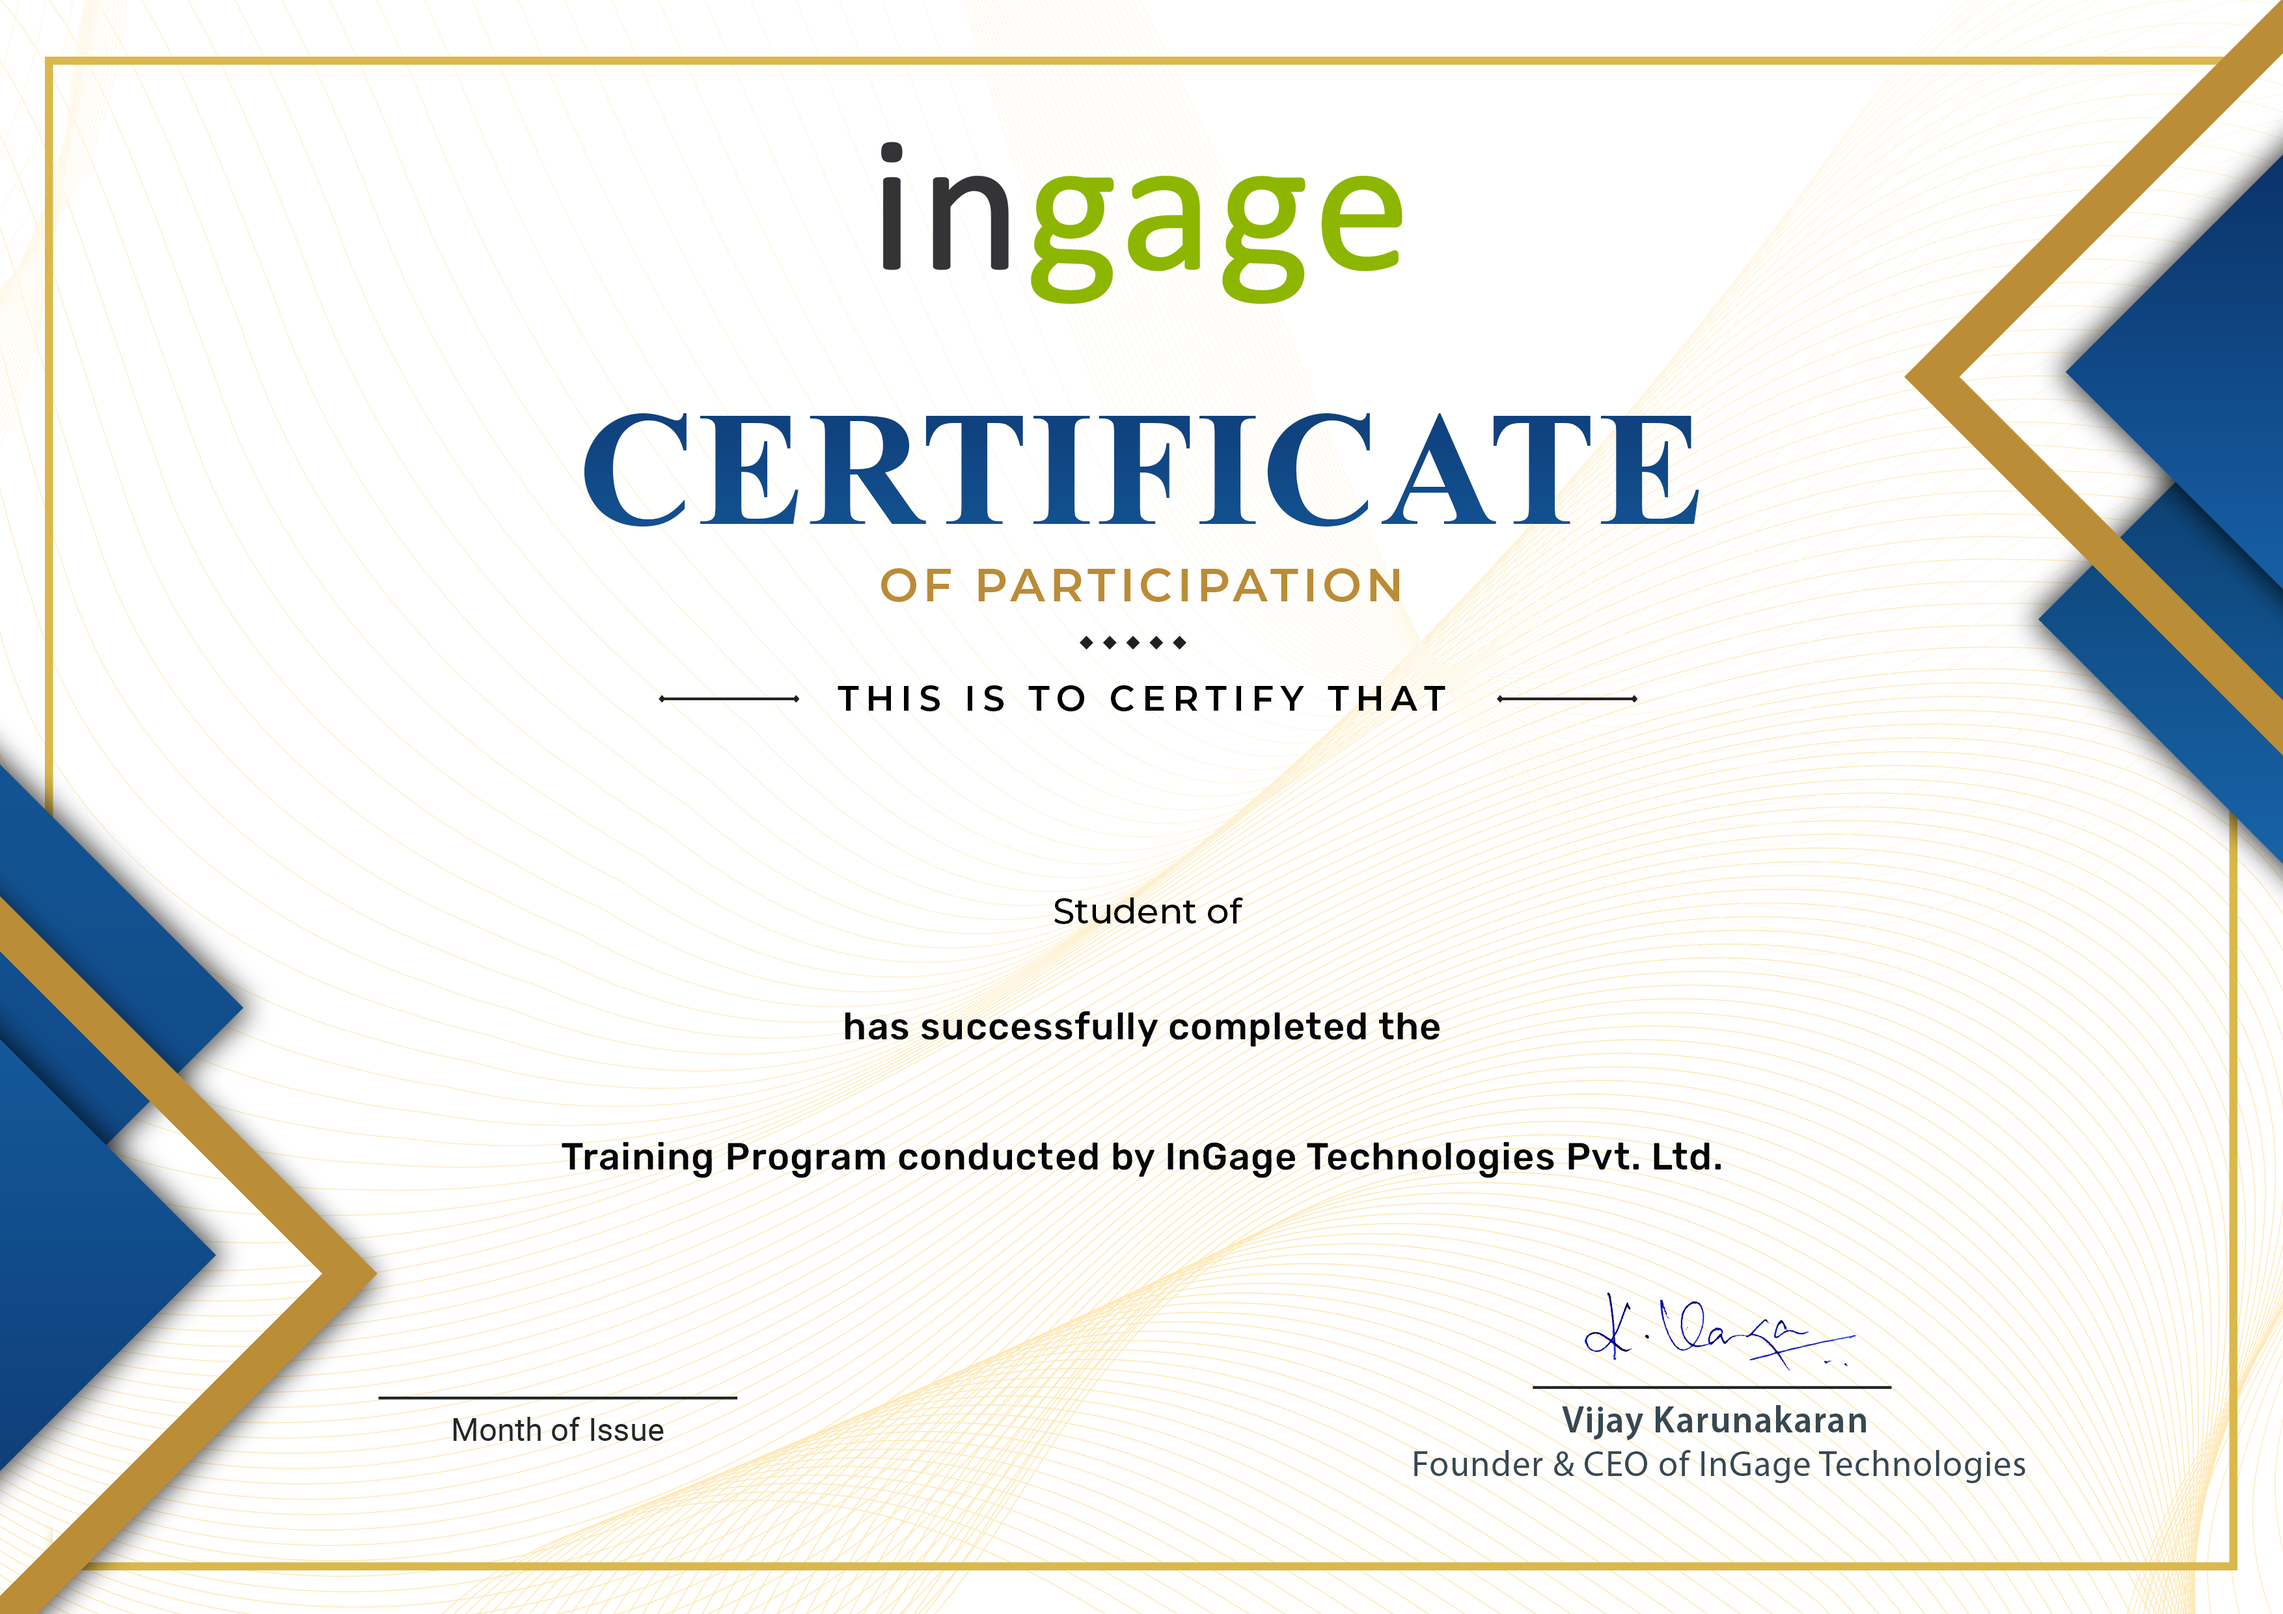
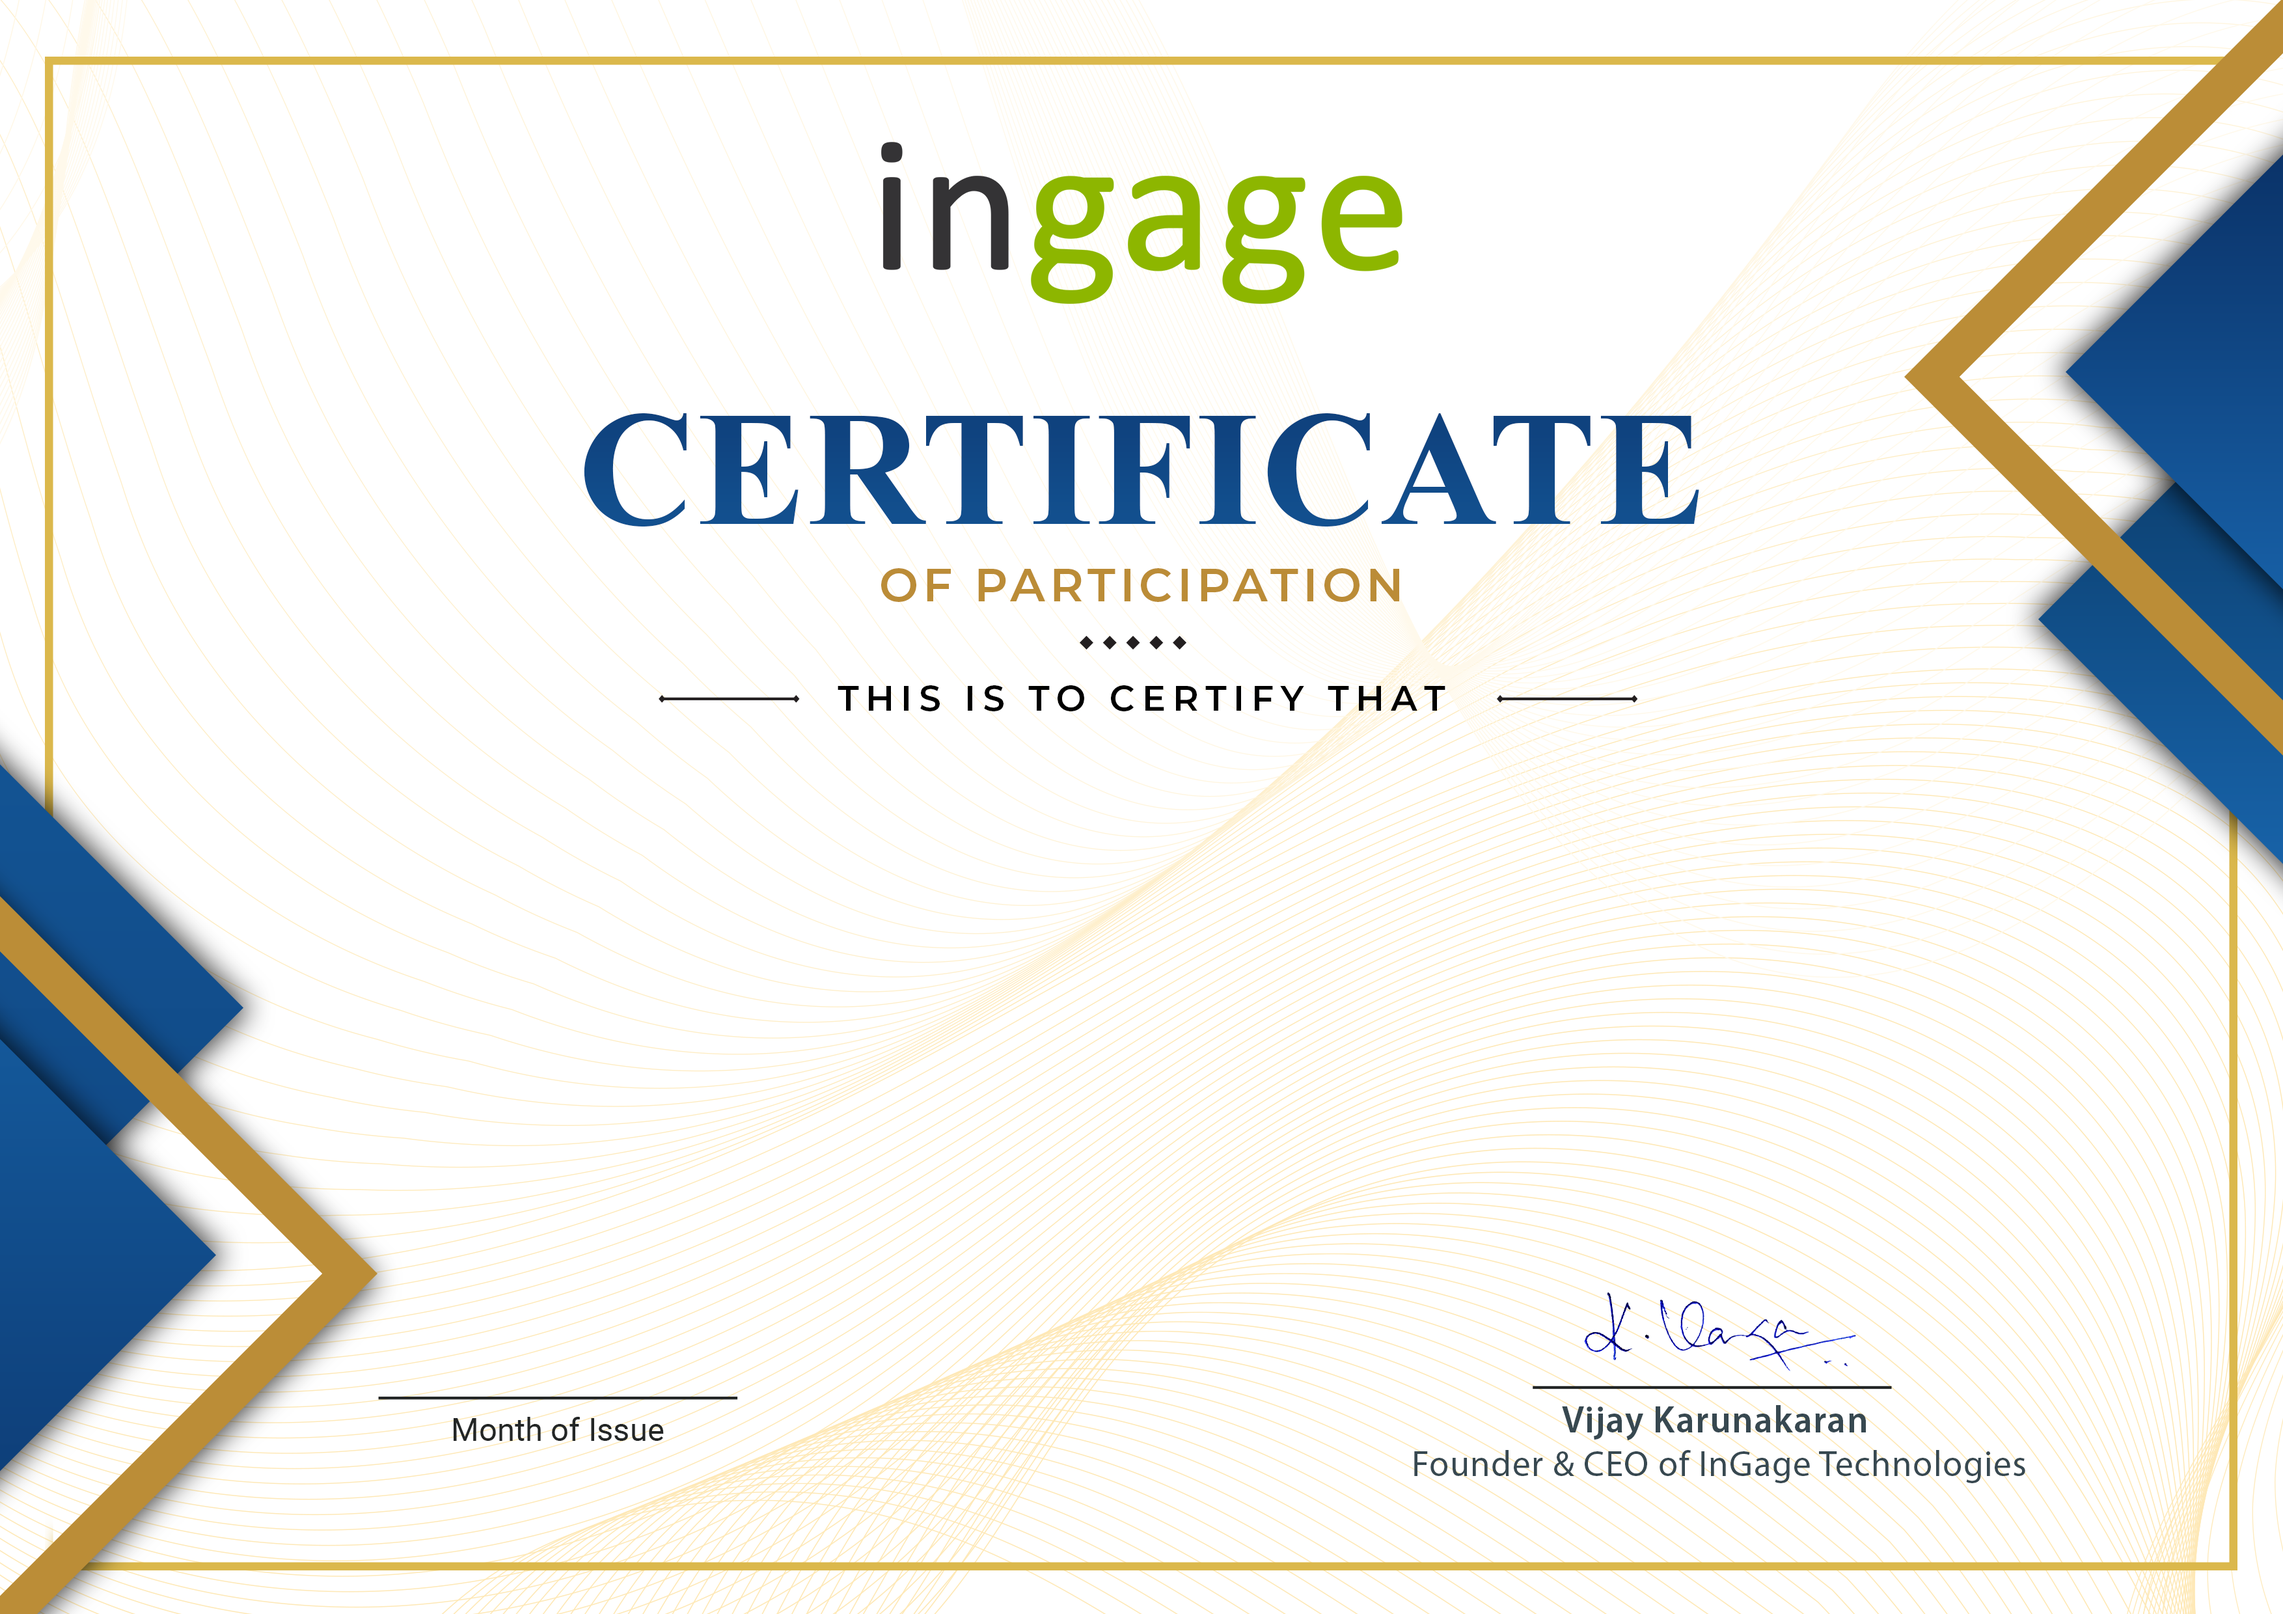
certificate aligned

Changed region(s): [[0.2486, 0.7141, 0.7457, 0.7452], [0.3729, 0.621, 0.6214, 0.652], [0.4661, 0.5589, 0.5282, 0.5899]]

diff --git a/backend/views.py b/backend/views.py
@@ -1,3 +1,88 @@
+# from django.http import HttpResponse, JsonResponse
+# from PIL import Image, ImageDraw, ImageFont
+# import io
+# import json
+# import os
+# from courses.models import *
+# from django.views.decorators.csrf import csrf_exempt
+# from django.conf import settings
+
+# @csrf_exempt
+# def generate_certificate(request):
+#     if request.method != 'POST':
+#         return JsonResponse({'error': 'Only POST method allowed'}, status=405)
+
+#     try:
+#         data = json.loads(request.body)
+#         name = data.get('name', '').title()  # Capitalize each word
+#         course = data.get('course').upper()
+#         course = f'has successfully completed the "{course}"'
+#         college = data.get('college')
+#         college = f'Student of "{college}"'
+#         temp = 'Training Program conducted by Ingage Technologies Pvt. Ltd.'
+#         month = data.get('month')
+
+#         if not all([name, course, college, month]):
+#             return JsonResponse({'error': 'Missing name, course, college, or month'}, status=400)
+
+#         try:
+#             user = User.objects.get(first_name__iexact=name.split()[0])
+#             course = Course.objects.get(name__iexact=name)
+#             Subscription.objects.filter(user=user, course=course).update(certificate_issued=True)
+#         except (User.DoesNotExist, Course.DoesNotExist):
+#             pass  # Don't block certificate creation if user not matched
+        
+#         # Paths
+#         template_path = os.path.join(settings.BASE_DIR, 'static', 'certificate.png')
+#         font_alexbrush = os.path.join(settings.BASE_DIR, 'static', 'AlexBrush-Regula for Name 23pt.ttf')
+#         font_rubik = os.path.join(settings.BASE_DIR, 'static', 'Rubik-Medium Course Name 14pt.ttf')
+#         font_montserrat = os.path.join(settings.BASE_DIR, 'static', 'Montserrat-Medium for College Name 13pt.ttf')
+
+#         # Load image and fonts
+#         certificate = Image.open(template_path).convert("RGB")
+#         draw = ImageDraw.Draw(certificate)
+
+#         font_name = ImageFont.truetype(font_alexbrush, size=200)
+#         font_course = ImageFont.truetype(font_rubik, size=53)
+#         font_college = ImageFont.truetype(font_montserrat, size=48)
+#         font_temp = ImageFont.truetype(font_montserrat, size=48)
+#         font_month = ImageFont.truetype(font_montserrat, size=48)  # Not bold
+
+#         # Coordinates
+#         name_center = (1754, 1300)
+#         college_center = (1754, 1580)
+#         course_center = (1754, 1680)
+#         temp_center = (1754, 1780)
+#         month_center = (849, 2096)
+
+#         # Draw text centered
+#         def draw_centered_text(text, center, font, fill="black"):
+#             bbox = draw.textbbox((0, 0), text, font=font)
+#             width = bbox[2] - bbox[0]
+#             height = bbox[3] - bbox[1]
+#             position = (center[0] - width / 2, center[1] - height / 2)
+#             draw.text(position, text, font=font, fill=fill)
+
+#         # Draw all fields
+#         draw_centered_text(name, name_center, font_name, fill="#104784")
+#         draw_centered_text(course, course_center, font_course)
+#         draw_centered_text(college, college_center, font_college)
+#         draw_centered_text(temp, temp_center, font_temp)
+#         draw_centered_text(month, month_center, font_month)
+
+#         # Save to PDF
+#         pdf_buffer = io.BytesIO()
+#         certificate.save(pdf_buffer, "PDF", resolution=100.0)
+#         pdf_buffer.seek(0)
+
+#         response = HttpResponse(pdf_buffer, content_type='application/pdf')
+#         response['Content-Disposition'] = 'attachment; filename="certificate.pdf"'
+#         return response
+
+#     except Exception as e:
+#         return JsonResponse({'error': str(e)}, status=500)
+
+
 from django.http import HttpResponse, JsonResponse
 from PIL import Image, ImageDraw, ImageFont
 import io
@@ -15,21 +100,22 @@ def generate_certificate(request):
     try:
         data = json.loads(request.body)
         name = data.get('name', '').title()  # Capitalize each word
-        course = data.get('course').title()
-        college = data.get('college')
+        course_name = data.get('course', '').upper()
+        college_name = data.get('college', '')
         month = data.get('month')
 
-        if not all([name, course, college, month]):
+        if not all([name, course_name, college_name, month]):
             return JsonResponse({'error': 'Missing name, course, college, or month'}, status=400)
 
+        # Optional: mark certificate as issued in DB
         try:
             user = User.objects.get(first_name__iexact=name.split()[0])
-            course = Course.objects.get(name__iexact=name)
-            Subscription.objects.filter(user=user, course=course).update(certificate_issued=True)
+            course_obj = Course.objects.get(name__iexact=course_name)
+            Subscription.objects.filter(user=user, course=course_obj).update(certificate_issued=True)
         except (User.DoesNotExist, Course.DoesNotExist):
-            pass  # Don't block certificate creation if user not matched
-        
-        # Paths
+            pass
+
+        # File paths
         template_path = os.path.join(settings.BASE_DIR, 'static', 'certificate.png')
         font_alexbrush = os.path.join(settings.BASE_DIR, 'static', 'AlexBrush-Regula for Name 23pt.ttf')
         font_rubik = os.path.join(settings.BASE_DIR, 'static', 'Rubik-Medium Course Name 14pt.ttf')
@@ -40,17 +126,18 @@ def generate_certificate(request):
         draw = ImageDraw.Draw(certificate)
 
         font_name = ImageFont.truetype(font_alexbrush, size=200)
-        font_course = ImageFont.truetype(font_rubik, size=53)
-        font_college = ImageFont.truetype(font_montserrat, size=48)
-        font_month = ImageFont.truetype(font_montserrat, size=48)  # Not bold
+        font_rubik_53 = ImageFont.truetype(font_rubik, size=53)
+        font_mont_48 = ImageFont.truetype(font_montserrat, size=48)
+        font_month = ImageFont.truetype(font_montserrat, size=48)
 
         # Coordinates
-        name_center = (1754, 1220)
-        course_center = (1754, 1670)
-        college_center = (1754, 1480)
+        name_center = (1754, 1300)
+        college_center = (1754, 1580)
+        course_center = (1754, 1680)
+        temp_center = (1754, 1780)
         month_center = (849, 2096)
 
-        # Draw text centered
+        # Function to draw centered text
         def draw_centered_text(text, center, font, fill="black"):
             bbox = draw.textbbox((0, 0), text, font=font)
             width = bbox[2] - bbox[0]
@@ -58,13 +145,59 @@ def generate_certificate(request):
             position = (center[0] - width / 2, center[1] - height / 2)
             draw.text(position, text, font=font, fill=fill)
 
-        # Draw all fields
+        # Draw name
         draw_centered_text(name, name_center, font_name, fill="#104784")
-        draw_centered_text(course, course_center, font_course)
-        draw_centered_text(college, college_center, font_college)
+
+        # ===== Course Line (Rubik + Montserrat) =====
+        course_prefix = 'has successfully completed the '
+        course_line = f'{course_prefix}"{course_name}"'
+        course_prefix_width = draw.textlength(course_prefix, font=font_mont_48)
+        course_name_width = draw.textlength(f'"{course_name}"', font=font_rubik_53)
+        total_course_width = course_prefix_width + course_name_width
+        course_y = course_center[1] - 53 / 2
+
+        draw.text(
+            (course_center[0] - total_course_width / 2, course_y),
+            course_prefix,
+            font=font_mont_48,
+            fill="black"
+        )
+        draw.text(
+            (course_center[0] - total_course_width / 2 + course_prefix_width, course_y),
+            f'"{course_name}"',
+            font=font_rubik_53,
+            fill="black"
+        )
+
+        # ===== College Line (Montserrat + Rubik) =====
+        college_prefix = 'Student of '
+        college_line = f'{college_prefix}"{college_name}"'
+        college_prefix_width = draw.textlength(college_prefix, font=font_mont_48)
+        college_name_width = draw.textlength(f'"{college_name}"', font=font_rubik_53)
+        total_college_width = college_prefix_width + college_name_width
+        college_y = college_center[1] - 48 / 2
+
+        draw.text(
+            (college_center[0] - total_college_width / 2, college_y),
+            college_prefix,
+            font=font_mont_48,
+            fill="black"
+        )
+        draw.text(
+            (college_center[0] - total_college_width / 2 + college_prefix_width, college_y),
+            f'"{college_name}"',
+            font=font_rubik_53,
+            fill="black"
+        )
+
+        # Draw the static training line
+        temp_line = 'Training Program conducted by Ingage Technologies Pvt. Ltd.'
+        draw_centered_text(temp_line, temp_center, font_mont_48)
+
+        # Draw month
         draw_centered_text(month, month_center, font_month)
 
-        # Save to PDF
+        # Save as PDF
         pdf_buffer = io.BytesIO()
         certificate.save(pdf_buffer, "PDF", resolution=100.0)
         pdf_buffer.seek(0)
